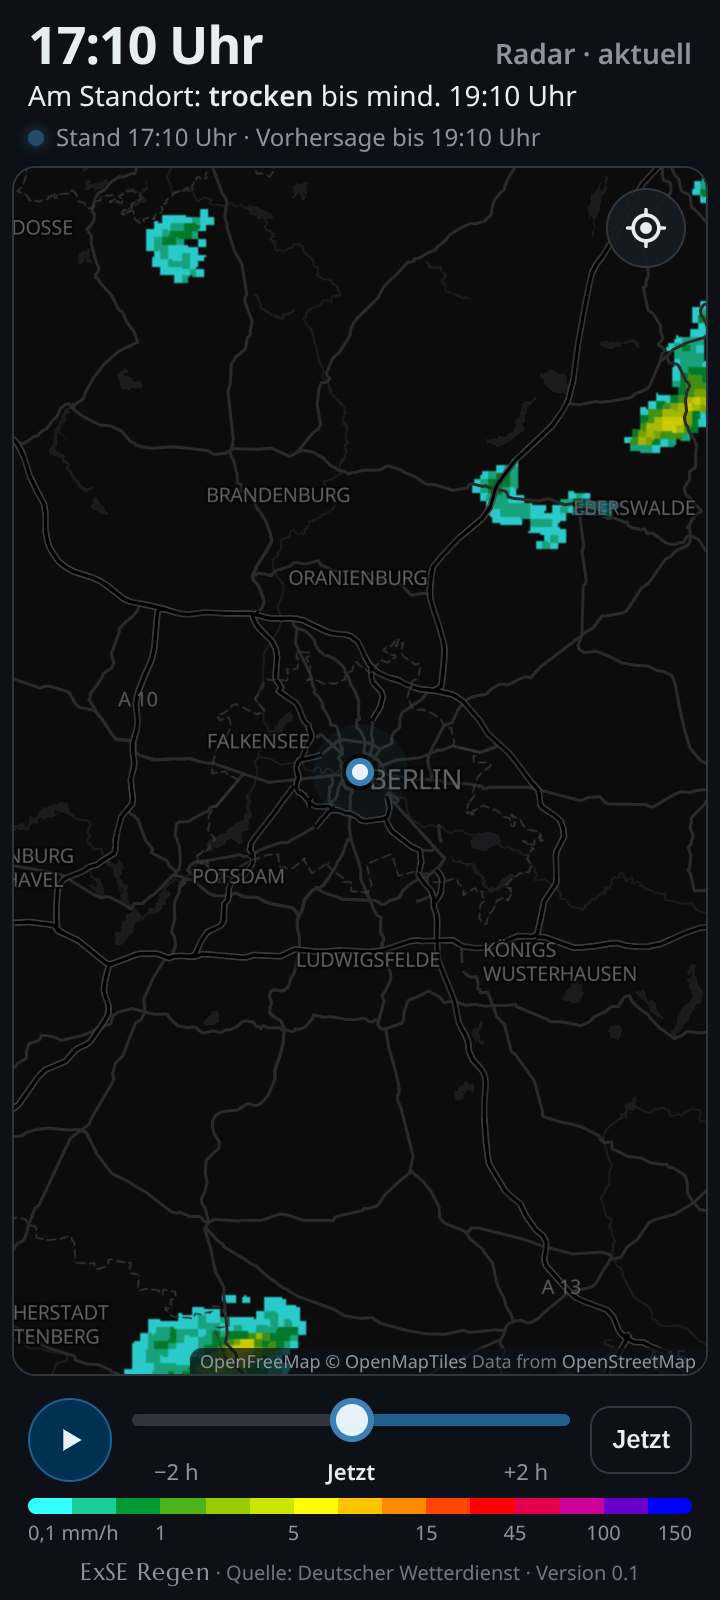
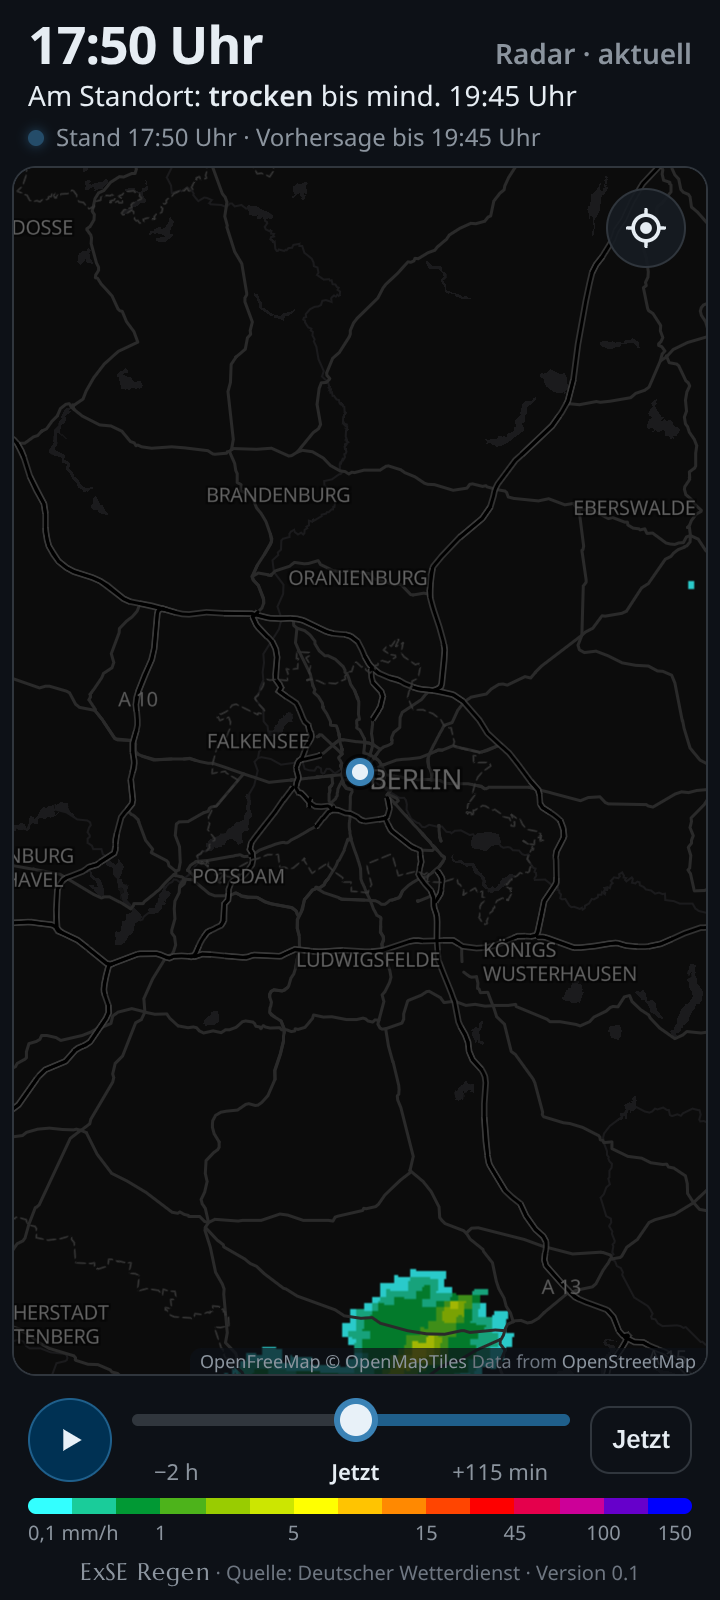
Version 0.1: Bilder im 5-Minuten-Abstand, Wiederverwendung geladener Bilder, SW-Cache regen-v2

diff --git a/site/app.js b/site/app.js
@@ -6,8 +6,8 @@ const WMS = 'https://maps.dwd.de/geoserver/dwd/wms';
 const CAPS = 'https://maps.dwd.de/geoserver/dwd/Niederschlagsradar/ows?service=WMS&version=1.3.0&request=GetCapabilities';
 const LAYER = 'dwd:Niederschlagsradar';
 const DWD_BOX = { s: 45.7, w: 1.5, n: 56.2, e: 18.7 };       // Abdeckung laut GetCapabilities
-const STEP = 10, PAST = 120;                                    // Bildabstand 10 min, 2 h Vergangenheit
-const REFRESH = 5 * 60e3, PLAY_MS = 550, END_PAUSE = 1400, OPACITY = 0.78;
+const STEP = 5, PAST = 120;                                     // Bildabstand 5 min, 2 h Vergangenheit
+const REFRESH = 5 * 60e3, PLAY_MS = 350, END_PAUSE = 1400, OPACITY = 0.78;
 const ZOOM = 7.5;                                               // Startzoom am Standort (ca. 120 km Breite)
 const DEF = { lat: 51.16, lon: 10.45, z: 6 };                   // Deutschland, falls kein Standort
 const $ = id => document.getElementById(id);
@@ -18,7 +18,7 @@ const ICON_PAUSE = '<svg viewBox="0 0 24 24" fill="currentColor"><rect x="6.5" y
 // DWD-Farbstufen (aus GetLegendGraphic), mm/h
 const DWD_LEG = [[.1, '#33ffff'], [.2, '#1acc9a'], [.4, '#019934'], [1, '#4db31b'], [2, '#99cc01'], [3, '#cce601'], [5, '#ffff01'], [7.5, '#ffc401'], [10, '#ff8901'], [15, '#ff4501'], [30, '#fe0000'], [45, '#e5004c'], [75, '#cc0098'], [100, '#6600cb'], [150, '#0000fe']];
 
-const S = { src: 'dwd', frames: [], idx: 0, nowIdx: 0, playing: false, timer: null, ref: null, end: null, pos: null, loadedAt: 0, gen: 0, box: null, ctrl: null };
+const S = { src: 'dwd', frames: [], idx: 0, nowIdx: 0, playing: false, timer: null, ref: null, end: null, pos: null, loadedAt: 0, gen: 0, box: null, ctrl: null, cache: new Map() };
 
 // ---------- Karte (MapLibre GL, Grundkarte OpenFreeMap „Dark“, ohne Schlüssel) ----------
 const STYLE = 'https://tiles.openfreemap.org/styles/dark';
@@ -93,7 +93,7 @@ function labelRel(f) {
   const m = Math.round((f.t - S.ref) / 60e3);
   if (m === 0) return 'Jetzt';
   const a = Math.abs(m), s = m < 0 ? '−' : '+';
-  return a % 60 === 0 ? `${s}${a / 60} h` : `${s}${a} min`;
+  return a % 60 === 0 ? `${s}${a / 60} h` : a > 60 ? `${s}${Math.floor(a / 60)} h ${a % 60} min` : `${s}${a} min`;
 }
 function showFrame(i) {
   if (!S.frames.length) return;
@@ -158,10 +158,15 @@ async function loadImages() {
   // lädt alle Bilder für den aktuellen Ausschnitt, zuerst „Jetzt“, dann nach außen
   const gen = ++S.gen; if (S.ctrl) S.ctrl.abort(); const ctrl = S.ctrl = new AbortController();
   const box = S.box = viewBox(); let placed = false;
-  S.frames.forEach(f => { if (f.url) URL.revokeObjectURL(f.url); f.url = null; });
-  const order = S.frames.map((f, i) => i).sort((a, b) => Math.abs(a - S.nowIdx) - Math.abs(b - S.nowIdx) || b - a);
-  if (order.includes(S.idx)) { order.splice(order.indexOf(S.idx), 1); order.unshift(S.idx); }
-  let done = 0, fail = 0;
+  // Bereits geladene Bilder (gleicher Ausschnitt, gleiche Zeit, gleicher Lauf) wiederverwenden, Rest freigeben
+  const key = f => box.bbox + '|' + box.W + 'x' + box.H + '|' + iso(f.t) + (f.t > S.ref ? '|' + iso(S.ref) : '');
+  const keep = new Map();
+  S.frames.forEach(f => { f.key = key(f); const u = S.cache.get(f.key); f.url = u || null; if (u) keep.set(f.key, u); });
+  S.cache.forEach((u, k) => { if (!keep.has(k)) URL.revokeObjectURL(u); }); S.cache = keep;
+  const order = S.frames.map((f, i) => i).filter(i => !S.frames[i].url).sort((a, b) => Math.abs(a - S.nowIdx) - Math.abs(b - S.nowIdx) || b - a);
+  if (order.includes(S.idx) && order[0] !== S.idx) { order.splice(order.indexOf(S.idx), 1); order.unshift(S.idx); }
+  let done = S.frames.filter(f => f.url).length, fail = 0;
+  if (S.frames[S.idx].url) { placed = true; setRadarImage(S.frames[S.idx].url, box.coords); }
   const one = async i => {
     const f = S.frames[i];
     for (let a = 0; a < 2; a++) {
@@ -169,7 +174,7 @@ async function loadImages() {
         const r = await fetch(frameUrl(f, box), { signal: ctrl.signal });
         if (!r.ok || !(r.headers.get('content-type') || '').startsWith('image/')) throw new Error('kein Bild');
         const blob = await r.blob(); if (gen !== S.gen) return;
-        f.url = URL.createObjectURL(blob); done++;
+        f.url = URL.createObjectURL(blob); S.cache.set(f.key, f.url); done++;
         if (!placed && i === S.idx) { placed = true; setRadarImage(f.url, box.coords); showFrame(S.idx); }
         if (done + fail < S.frames.length) state(`Lade Radarbilder … ${done}/${S.frames.length}`);
         return;
@@ -177,7 +182,7 @@ async function loadImages() {
     }
     fail++;
   };
-  const queue = order.slice(), workers = Array.from({ length: 4 }, async () => { while (queue.length && gen === S.gen) await one(queue.shift()); });
+  const queue = order.slice(), workers = Array.from({ length: 6 }, async () => { while (queue.length && gen === S.gen) await one(queue.shift()); });
   await Promise.all(workers);
   if (gen !== S.gen) return;
   if (!done) throw new Error('Keine Radarbilder');
@@ -223,7 +228,6 @@ async function loadDWD() {
   S.ref = ref; S.end = end; S.src = 'dwd';
   const fr = [];
   for (let t = +ref - PAST * 60e3; t <= +end; t += STEP * 60e3) fr.push({ t: new Date(t), url: null });
-  S.frames.forEach(f => f.url && URL.revokeObjectURL(f.url));
   S.frames = fr; S.nowIdx = fr.findIndex(f => +f.t === +ref);
   S.idx = keepFuture || S.playing ? Math.min(fr.length - 1, Math.max(0, S.nowIdx + rel)) : S.nowIdx;
   buildTicks(); showFrame(S.idx);
@@ -295,5 +299,5 @@ $('nowBtn').addEventListener('click', () => { setPlaying(false); showFrame(S.now
 $('locBtn').addEventListener('click', async () => { const p = await locate(true); if (p) { if (!S.pos || inDWD(p) !== (S.src === 'dwd')) refresh(false); else pointForecast(p); } });
 setInterval(() => { if (!document.hidden && Date.now() - S.loadedAt >= REFRESH) refresh(true); }, 30e3);
 document.addEventListener('visibilitychange', () => { if (!document.hidden && Date.now() - S.loadedAt >= 2 * 60e3) refresh(true); });
-window.S = S; window.showFrame = showFrame; // für Tests
+window.S = S; window.showFrame = showFrame; window.refresh = refresh; // für Tests
 setPlaying(false); setLegend('dwd'); refresh(true);

diff --git a/tools/shot.js b/tools/shot.js
@@ -7,7 +7,7 @@ const [W, H, out, lat, lon] = [+(process.argv[2] || 412), +(process.argv[3] || 9
   const p = await ctx.newPage(); const errs = [];
   p.on('pageerror', e => errs.push(e.message)); p.on('console', m => (m.type() === 'error' || m.type() === 'warning') && errs.push(m.text()));
   const t0 = Date.now();
-  await p.goto('http://localhost:8091/', { waitUntil: 'load' });
+  await p.goto((process.env.URL || 'http://localhost:8091/'), { waitUntil: 'load' });
   await p.waitForFunction(() => window.S && S.frames.length && S.frames[S.nowIdx].url, null, { timeout: 120000 }).catch(() => {});
   console.log('erstes Radarbild nach', Date.now() - t0, 'ms');
   await p.waitForFunction(() => /Stand|nicht/.test(document.getElementById('stateTxt').textContent) && !/Lade/.test(document.getElementById('stateTxt').textContent), null, { timeout: 120000 });
@@ -18,6 +18,7 @@ const [W, H, out, lat, lon] = [+(process.argv[2] || 412), +(process.argv[3] || 9
   console.log('Frames:', await p.evaluate(() => S.frames.length + ' gesamt, ' + S.frames.filter(f => f.url).length + ' geladen, jetzt=' + S.nowIdx));
   await p.screenshot({ path: out });
   if (process.argv[7] === 'more') {
+    const t1 = Date.now(); await p.evaluate(() => { S.loadedAt = 0; }); await p.waitForTimeout(100);
     await p.evaluate(() => showFrame(S.frames.length - 1)); await p.waitForTimeout(500);
     console.log(JSON.stringify(await info())); await p.screenshot({ path: out.replace('.png', '-vorhersage.png') });
     await p.click('#play'); await p.waitForTimeout(2000); console.log('play ->', await p.evaluate(() => S.idx + ' ' + S.playing)); await p.click('#play');

diff --git a/site/sw.js b/site/sw.js
@@ -1,5 +1,5 @@
 // ExSE Regen – Service Worker: App-Hülle offline verfügbar, Radardaten und Karten immer direkt aus dem Netz
-const C = 'regen-v1', SHELL = ['./', './index.html', './app.js', './vendor/maplibre-gl.mjs', './vendor/maplibre-gl-worker.mjs', './vendor/maplibre-gl.css', './fonts/marcellus-exse-regen.woff2', './favicon-32.png', './icons/icon-v1-192.png'];
+const C = 'regen-v2', SHELL = ['./', './index.html', './app.js', './vendor/maplibre-gl.mjs', './vendor/maplibre-gl-worker.mjs', './vendor/maplibre-gl.css', './fonts/marcellus-exse-regen.woff2', './favicon-32.png', './icons/icon-v1-192.png'];
 self.addEventListener('install', e => { e.waitUntil(caches.open(C).then(c => c.addAll(SHELL))); self.skipWaiting(); });
 self.addEventListener('activate', e => { e.waitUntil(caches.keys().then(k => Promise.all(k.filter(x => x !== C).map(x => caches.delete(x))))); self.clients.claim(); });
 self.addEventListener('fetch', e => {

diff --git a/README.md b/README.md
@@ -3,7 +3,7 @@
 Regenradar als Web-App (PWA) für das Android-Handy (Chrome): aktuelle Regenkarte, zentriert auf den eigenen Standort, mit Animation der letzten 2 Stunden und Vorhersage für die nächsten 2 Stunden.
 
 ## Funktionen
-- Regenkarte des **Deutschen Wetterdienstes** (WMS-Layer `dwd:Niederschlagsradar`, RV-Produkt, 1 km, alle 5 Minuten), Bildabstand 10 Minuten von −2 h bis +2 h
+- Regenkarte des **Deutschen Wetterdienstes** (WMS-Layer `dwd:Niederschlagsradar`, RV-Produkt, 1 km, alle 5 Minuten), Bildabstand 5 Minuten von −2 h bis +2 h (49 Bilder, nächstliegende zuerst geladen, bereits geladene Bilder werden bei der Aktualisierung wiederverwendet)
 - Standort per GPS mit Markierung, Knopf zum Zentrieren; letzter Standort wird gespeichert
 - Zeile „Am Standort“: trocken / leichter, mäßiger, starker Regen, „Regen ab ca. …“ bzw. „trocken ab ca. …“ (DWD GetFeatureInfo, Zeitreihe am Standort)
 - Abspielen/Anhalten, Zeitleiste zum Wischen, Knopf „Jetzt“, Anzeige „Stand“ (Zeit des letzten Radarbilds)

diff --git a/CHANGELOG.md b/CHANGELOG.md
@@ -1,4 +1,4 @@
 # Änderungen
 
 ## Version 0.1 (10.10.2026)
-- Erste Fassung: DWD-Regenradar mit Animation −2 h bis +2 h, Standort, Wert am Standort, Legende, automatische Aktualisierung, RainViewer als Ausweichquelle, App-Symbol im ExSE-Stil.
+- Erste öffentliche Testversion: DWD-Regenradar mit Animation −2 h bis +2 h im 5-Minuten-Abstand (49 Bilder, nächstliegende zuerst geladen, Wiederverwendung bei Aktualisierung), startet angehalten auf „Jetzt“, Standort, Wert am Standort, Legende, automatische Aktualisierung, RainViewer als Ausweichquelle, App-Symbol im ExSE-Stil, SW-Cache regen-v2.
